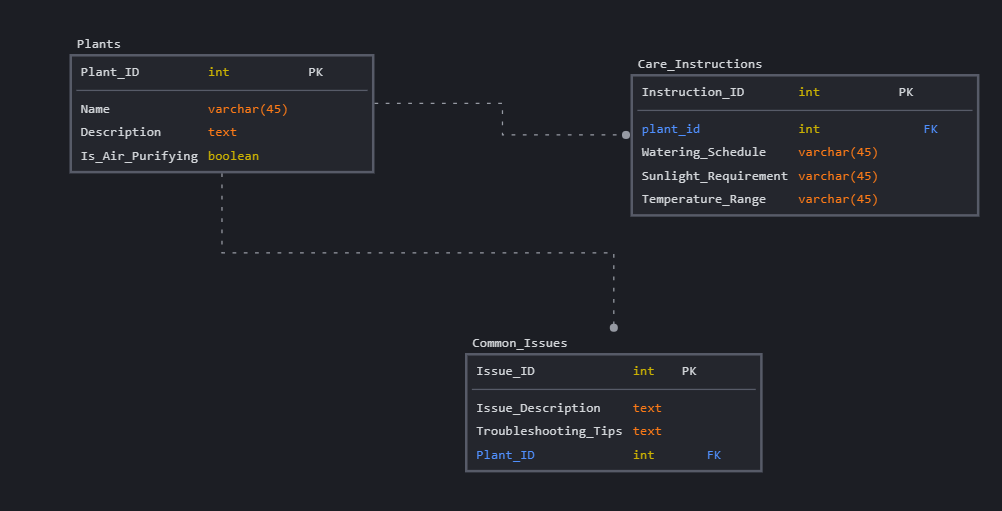
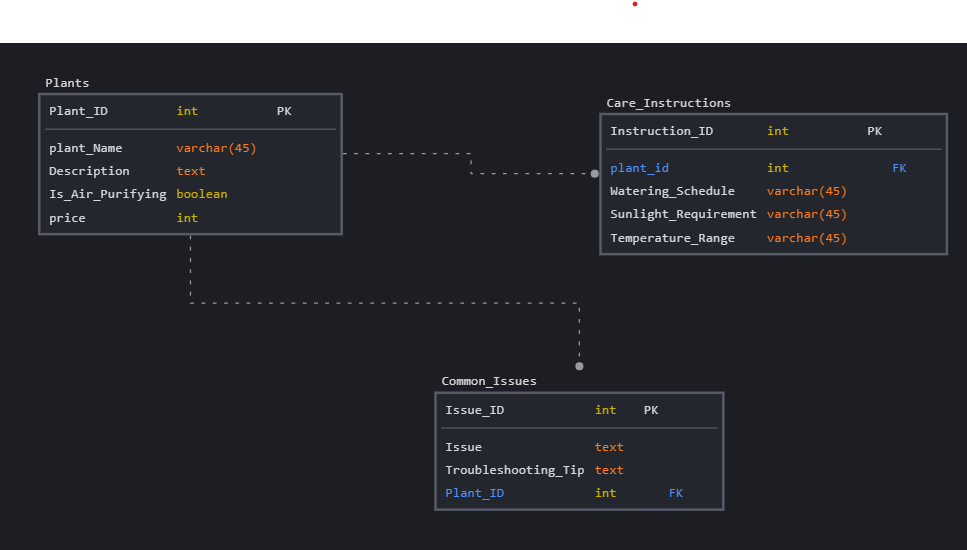
added new column and button and updated schema

Changed region(s): [[0.0, 0.0, 1.0, 0.4403], [0.5895, 0.1174, 0.9928, 0.4697], [0.4343, 0.6164, 0.7756, 0.9393]]

diff --git a/guide.html b/guide.html
@@ -1,43 +1,10 @@
-<!--<!DOCTYPE html>
-<html lang="en">
-<head>
-    <meta charset="UTF-8">
-    <meta name="viewport" content="width=device-width, initial-scale=1.0">
-    <title>Plant Guide</title>
-    <link rel="stylesheet" href="C:\Users\ageer\Downloads\Assignment_LookAndFeel-master\Assignment_LookAndFeel-master\css\main.css">
-</head>
-<body>
-    <header>
-        <h1>Plant Care Guide</h1>
-        <nav>
-            <ul>
-                <li><a href="index.html">Home</a></li>
-                <li><a href="guide.html">Guide</a></li>
-                <li><a href="about.html">About Us</a></li>
-            </ul>
-        </nav>
-    </header>
-    <main>
-        <h2>Common Houseplants</h2>
-        <ul>
-            <li>Fern - ideal for low light conditions.</li>
-            <li>Spider Plant - very easy to care for and good for beginners.</li>
-            <li>Rubber Tree - requires more light and occasional pruning.</li>
-        </ul>
-    </main>
-    <footer>
-        <p>Copyright &copy; 2022</p>
-    </footer>
-</body>
-</html>
---->
 <!DOCTYPE html>
 <html lang="en">
 <head>
     <meta charset="UTF-8">
     <meta name="viewport" content="width=device-width, initial-scale=1.0">
     <title>Plant Tips</title>
-    <link rel="stylesheet" href="C:/Users/grees/source/repos/Assignment_LookAndFeelFinal/css/main.css">
+    <link rel="stylesheet" href="css/main.css">
 
 </head>
 <body>
@@ -59,89 +26,196 @@
             <table>
                 <tr>
                     <th>Plant Name</th>
-                    <th>Watering Schedule</th>
-                    <th>Sunlight Requirement</th>
-                    <th>Common Issues</th>
+                    <th>Description</th>
+                    <th>Is Air Purifying</th>
+                    <th>Price ($)</th>
+                    <th>purchase</th>
                 </tr>
                 <tr>
                     <td>Fern</td>
-                    <td>Once a week</td>
-                    <td>Low light</td>
-                    <td>Over-watering</td>
+                    <td>Ferns offer lush greenery and thrive in indirect light and high humidity, making them ideal for bathrooms.</td>
+                    <td>No</td>
+                    <td>10.99</td>
+                    <td><button type="button">Buy</button></td>
                 </tr>
                 <tr>
                     <td>Spider Plant</td>
-                    <td>Every 10 days</td>
-                    <td>Indirect sunlight</td>
-                    <td>Root rot</td>
+                    <td>Spider Plants are resilient and excellent at purifying the air; they adapt well to a variety of conditions.</td>
+                    <td>Yes</td>
+                    <td>8.99</td>
+                    <td><button type="button">Buy</button></td>
                 </tr>
                 <tr>
                     <td>Rubber Tree</td>
-                    <td>Twice a month</td>
-                    <td>Bright, indirect light</td>
-                    <td>Leaf loss</td>
+                    <td>With large, glossy leaves, Rubber Trees add a bold statement to any room and prefer indirect light.</td>
+                    <td>Yes</td>
+                    <td>15.99</td>
+                    <td><button type="button">Buy</button></td>
                 </tr>
                 <tr>
                     <td>Aloe Vera</td>
-                    <td>Every 3 weeks</td>
-                    <td>Direct sunlight</td>
-                    <td>Leaf wilting</td>
+                    <td>Aloe Vera is known for its medicinal properties and thrives in sunny spots with occasional watering.</td>
+                    <td>Yes</td>
+                    <td>9.99</td>
+                    <td><button type="button">Buy</button></td>
                 </tr>
                 <tr>
                     <td>Peace Lily</td>
-                    <td>Once a week</td>
-                    <td>Low to moderate light</td>
-                    <td>Brown leaf tips</td>
+                    <td>Peace Lilies bloom beautiful white flowers and can improve air quality; they enjoy low to moderate light.</td>
+                    <td>Yes</td>
+                    <td>12.99</td>
+                    <td><button type="button">Buy</button></td>
                 </tr>
                 <tr>
                     <td>Pothos</td>
-                    <td>Weekly to bi-weekly</td>
-                    <td>Low to medium indirect light</td>
-                    <td>Yellowing leaves, overwatering</td>
+                    <td>Pothos is a versatile vine that grows well in a variety of lighting conditions and is great for beginners.</td>
+                    <td>Yes</td>
+                    <td>6.99</td>
+                    <td><button type="button">Buy</button></td>
                 </tr>
                 <tr>
-                    <td>Devil's Ivy </td>
-                    <td>Weekly to bi-weekly</td>
-                    <td>Low to medium indirect light</td>
-                    <td>Browning leaves, overwatering</td>
+                    <td>Devil's Ivy</td>
+                    <td>Devil's Ivy, similar to Pothos, is a fast-growing vine that is forgiving and can tolerate low light.</td>
+                    <td>Yes</td>
+                    <td>7.99</td>
+                    <td><button type="button">Buy</button></td>
                 </tr>
                 <tr>
-                    <td>ZZ Plant </td>
-                    <td>Monthly</td>
-                    <td>Low to bright indirect light</td>
-                    <td>Yellowing leaves, overwatering</td>
+                    <td>ZZ Plant</td>
+                    <td>ZZ Plants are drought-tolerant and require minimal care, making them suitable for those with a busy lifestyle.</td>
+                    <td>No</td>
+                    <td>19.99</td>
+                    <td><button type="button">Buy</button></td>
                 </tr>
                 <tr>
-                    <td>Philodendron </td>
-                    <td>Weekly to bi-weekly</td>
-                    <td>Low to medium indirect light</td>
-                    <td>Brown leaf tips, root rot</td>
+                    <td>Philodendron</td>
+                    <td>Philodendrons are popular for their heart-shaped leaves and adaptability to indoor conditions.</td>
+                    <td>Yes</td>
+                    <td>13.99</td>
+                    <td><button type="button">Buy</button></td>
                 </tr>
                 <tr>
-                    <td>Chinese Money Plant </td>
-                    <td>Weekly, keep soil evenly moist but not soggy</td>
-                    <td>Indirect light</td>
-                    <td>Brown spots from direct sunlight, root rot from overwatering</td>
+                    <td>Chinese Money Plant</td>
+                    <td>Chinese Money Plants are known for their unique round leaves and can bring a playful aesthetic to any space.</td>
+                    <td>No</td>
+                    <td>14.99</td>
+                    <td><button type="button">Buy</button></td>
                 </tr>
                 <tr>
                     <td>Calathea</td>
-                    <td>Weekly, keep soil consistently moist</td>
-                    <td>Indirect light, avoid direct sunlight</td>
-                    <td>Brown leaf edges from dry air or direct sunlight, yellowing leaves from overwatering</td>
+                    <td>Calatheas boast beautifully patterned leaves and are loved for their movement, folding up at night.</td>
+                    <td>No</td>
+                    <td>16.99</td>
+                    <td><button type="button">Buy</button></td>
                 </tr>
                 <tr>
                     <td>Monstera</td>
-                    <td>Weekly to bi-weekly, allow soil to dry slightly between waterings</td>
-                    <td>Indirect light, can tolerate low light</td>
-                    <td>Brown leaf edges from dry air or direct sunlight, yellowing leaves from overwatering</td>
+                    <td>Monsteras are trendy due to their distinctive split leaves; they prefer bright, indirect light and humid conditions.</td>
+                    <td>No</td>
+                    <td>22.99</td>
+                    <td><button type="button">Buy</button></td>
                 </tr>
                 <tr>
-                    <td>Parlor Palm </td>
-                    <td>Every 1-2 weeks, allow soil to dry slightly between waterings</td>
-                    <td>Low to medium indirect light</td>
-                    <td>Browning leaves from overwatering, yellowing leaves from too much direct sunlight</td>
+                    <td>Parlor Palm</td>
+                    <td>Parlor Palms are elegant and easy to care for, thriving in indirect sunlight and adding a touch of sophistication.</td>
+                    <td>Yes</td>
+                    <td>24.99</td>
+                    <td><button type="button">Buy</button></td>
                 </tr>
             </table>
+
+
+
+
+
+
+            <h2>Plant Care Instructions</h2>
+    <table>
+        <tr>
+            <th>Plant Name</th>
+            <th>Watering Schedule</th>
+            <th>Sunlight Requirement</th>
+            <th>Temperature Range</th>
+        </tr>
+        <tr>
+            <td>Fern</td>
+            <td>Once a week</td>
+            <td>Low light</td>
+            <td>65-75°F (18-24°C)</td>
+        </tr>
+        <tr>
+            <td>Spider Plant</td>
+            <td>Every 10 days</td>
+            <td>Indirect sunlight</td>
+            <td>60-80°F (15-27°C)</td>
+        </tr>
+        <tr>
+            <td>Rubber Tree</td>
+            <td>Twice a month</td>
+            <td>Bright, indirect light</td>
+            <td>60-75°F (15-24°C)</td>
+        </tr>
+        <tr>
+            <td>Aloe Vera</td>
+            <td>Every 3 weeks</td>
+            <td>Direct sunlight</td>
+            <td>60-75°F (15-24°C)</td>
+        </tr>
+        <tr>
+            <td>Peace Lily</td>
+            <td>Once a week</td>
+            <td>Low to moderate light</td>
+            <td>65-80°F (18-27°C)</td>
+        </tr>
+        <tr>
+            <td>Pothos</td>
+            <td>Weekly to bi-weekly</td>
+            <td>Low to medium indirect light</td>
+            <td>65-75°F (18-24°C)</td>
+        </tr>
+        <tr>
+            <td>Devil's Ivy</td>
+            <td>Weekly to bi-weekly</td>
+            <td>Low to medium indirect light</td>
+            <td>65-75°F (18-24°C)</td>
+        </tr>
+        <tr>
+            <td>ZZ Plant</td>
+            <td>Monthly</td>
+            <td>Low to bright indirect light</td>
+            <td>60-75°F (15-24°C)</td>
+        </tr>
+        <tr>
+            <td>Philodendron</td>
+            <td>Weekly to bi-weekly</td>
+            <td>Low to medium indirect light</td>
+            <td>65-78°F (18-25°C)</td>
+        </tr>
+        <tr>
+            <td>Chinese Money Plant</td>
+            <td>Weekly, keep soil evenly moist but not soggy</td>
+            <td>Indirect light</td>
+            <td>60-75°F (15-24°C)</td>
+        </tr>
+        <tr>
+            <td>Calathea</td>
+            <td>Weekly, keep soil consistently moist</td>
+            <td>Indirect light, avoid direct sunlight</td>
+            <td>65-75°F (18-24°C)</td>
+        </tr>
+        <tr>
+            <td>Monstera</td>
+            <td>Weekly to bi-weekly, allow soil to dry slightly between waterings</td>
+            <td>Indirect light, can tolerate low light</td>
+            <td>65-85°F (18-29°C)</td>
+        </tr>
+        <tr>
+            <td>Parlor Palm</td>
+            <td>Every 1-2 weeks, allow soil to dry slightly between waterings</td>
+            <td>Low to medium indirect light</td>
+            <td>65-80°F (18-27°C)</td>
+        </tr>
+    </table>
 
             <section class="intro02">
                 <a href="tips.html" class="cta-button02">Explore Tips</a>

diff --git a/about.html b/about.html
@@ -4,7 +4,7 @@
     <meta charset="UTF-8">
     <meta name="viewport" content="width=device-width, initial-scale=1.0">
     <title>About Us</title>
-    <link rel="stylesheet" href="C:/Users/grees/source/repos/Assignment_LookAndFeelFinal/css/main.css">
+    <link rel="stylesheet" href="css/main.css">
 </head>
 <body>
     <div class="wrapper">
@@ -25,7 +25,7 @@
             <!--<p>To provide easy-to-understand, reliable information about caring for houseplants to enhance your indoor gardening experience.</p>-->
             <!-- Team Member 1 -->
             <div class="team-member">
-                <img src="C:\Users\ageer\Downloads\Assignment_LookAndFeel-master\Assignment_LookAndFeel-master\img\hari.png" alt="Hari">
+                <img src="img\hari.png" alt="Hari">
                 <h2>Hari</h2>
                 <p>Description for Hari goes here...</p>
             </div>
@@ -46,14 +46,14 @@
 
             <!-- Team Member 4 -->
             <div class="team-member">
-                <img src="C:\Users\ageer\Downloads\Assignment_LookAndFeel-master\Assignment_LookAndFeel-master\img\lav.png" alt="Lav">
+                <img src="img\lav.png" alt="Lav">
                 <h2>Lav</h2>
                 <p>Description for Lav goes here...</p>
             </div>
 
             <!-- Logical Data Model -->
             <h2>Logical Data Model</h2>
-            <img src="C:\Users\ageer\Downloads\Assignment_LookAndFeel-master\Assignment_LookAndFeel-master\img\datamodel.png" alt="Logical Data Model">
+            <img src="img\datamodel.png" alt="Logical Data Model">
         </main>
     <footer>
         <p>Copyright &copy; 2024</p>

diff --git a/index.html b/index.html
@@ -4,7 +4,8 @@
     <meta charset="UTF-8">
     <meta name="viewport" content="width=device-width, initial-scale=1.0">
     <title>PlantParadise - Home</title>
-    <link rel="stylesheet" href="C:/Users/grees/source/repos/Assignment_LookAndFeelFinal/css/main.css">
+    <link rel="stylesheet" href="css\main.css">
+
 </head>
 <body>
     <div class="wrapper">
@@ -28,7 +29,7 @@
 
                 <h2 class=" heading02" style="font-size: 40px; font-family:'Berlin Sans FB'"> PLANT PARADISE</h2>
                 <h4 class ="heading03" style="font-size: 15px; font-family: 'Arial Rounded MT'">Your ultimate houseplant guide for all your green thumb needs. Explore plant care tips, watering schedules, and more to help your indoor garden flourish.</h4>
-                <img src="C:/Users/grees/source/repos/Assignment_LookAndFeelFinal/img/HomePlant02.jpg" alt="HomePlant">
+                <img src="img/HomePlant02.jpg" alt="HomePlant">
             </div>
             
             <a href="guide.html" class="cta-button">Explore Guide</a>

diff --git a/css/main.css b/css/main.css
@@ -22,11 +22,11 @@ body, html {
   align-items: center;
 }
 .plant-images {
-    position: relative;
-    width: 100%;
-    margin: 0;
-    auto;
+  position: relative;
+  width: 100%;
+  margin: 0 auto; /* Centers the element */
 }
+
 .heading02 {
     color: darkolivegreen;
     position: absolute;
@@ -183,4 +183,27 @@ th {
   border-radius: 50%; /* Circular images */
   margin-right: 15px;
   object-fit: cover; /* Ensures the image covers the area without distortion */
+}
+
+
+
+/* here added style for button */
+/* Buy Button Styles */
+button {
+  background-color: #4CAF50; /* Green */
+  border: none;
+  color: white;
+  padding: 10px 20px;
+  text-align: center;
+  text-decoration: none;
+  display: inline-block;
+  font-size: 16px;
+  margin: 4px 2px;
+  cursor: pointer;
+  border-radius: 4px;
+  transition: background-color 0.3s ease;
+}
+
+button:hover {
+  background-color: #45a049;
 }

diff --git a/tips.html b/tips.html
@@ -5,7 +5,7 @@
     <meta charset="UTF-8">
     <meta name="viewport" content="width=device-width, initial-scale=1.0">
     <title>Plant Tips</title>
-    <link rel="stylesheet" href="C:/Users/grees/source/repos/Assignment_LookAndFeelFinal/css/main.css">
+    <link rel="stylesheet" href="css/main.css">
 
 </head>
 <body>
